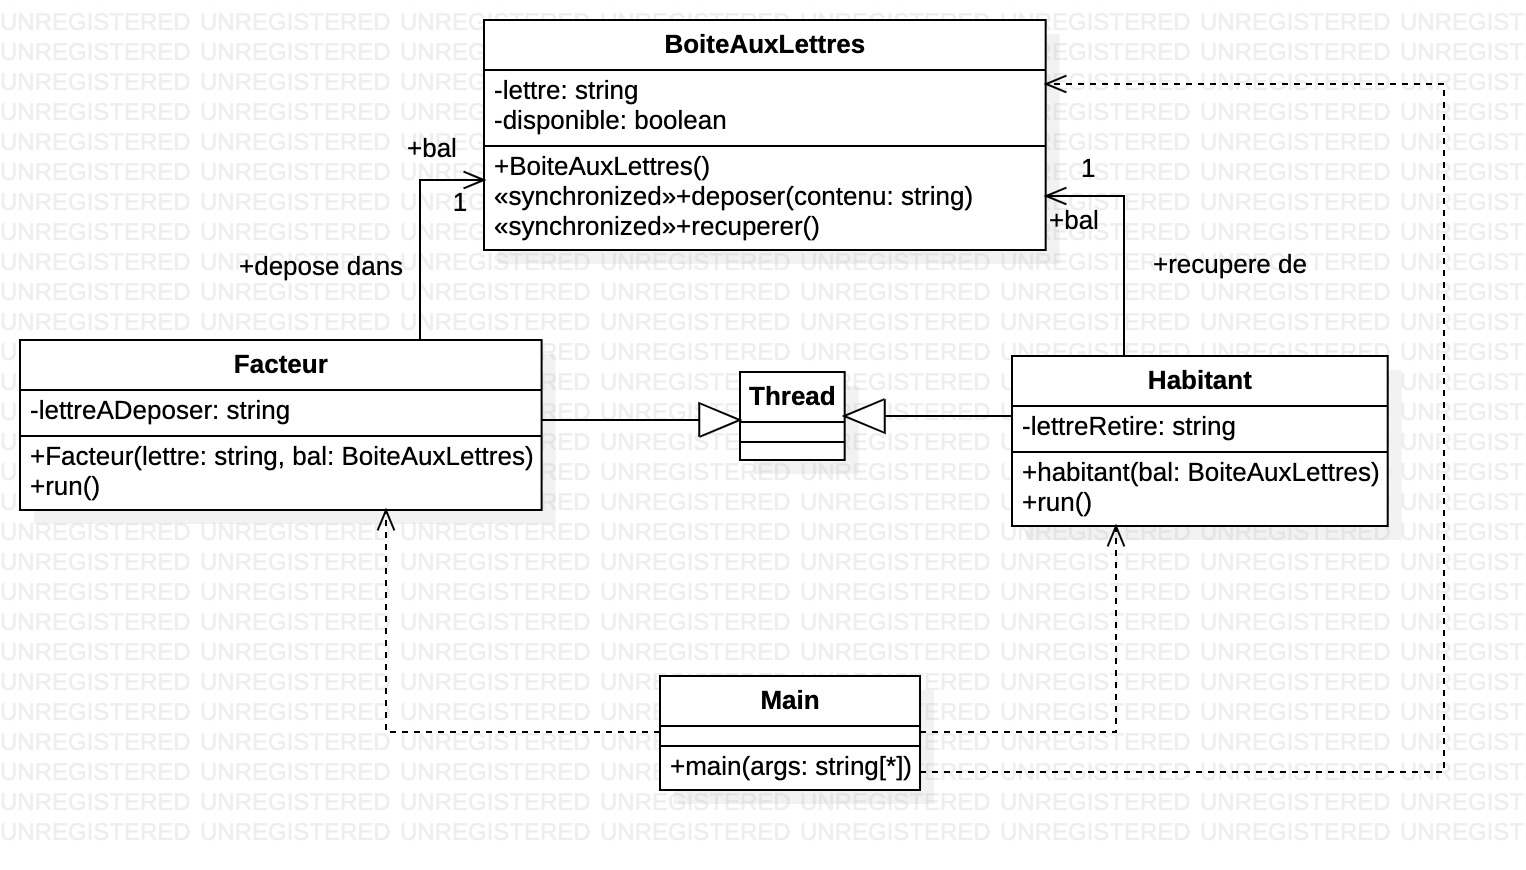
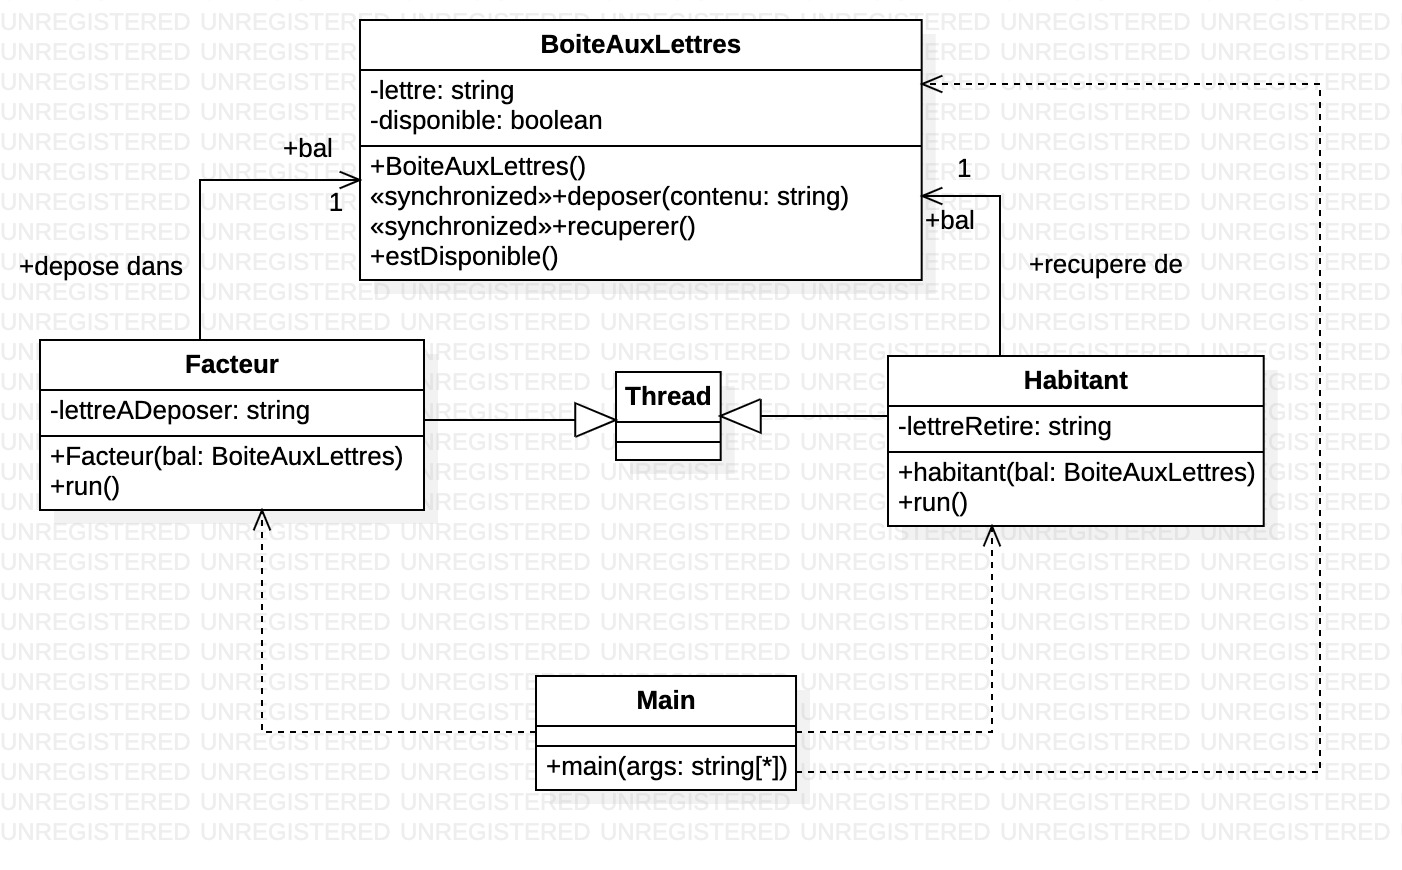
Boucle sur le producteur et le consommateur du temps que la lettre n'est pas Q

diff --git a/TP3_Moniteur_BAL/Facteur.java b/TP3_Moniteur_BAL/Facteur.java
@@ -5,21 +5,27 @@ public class Facteur extends Thread
     private String lettreADeposer = null;
     private BoiteAuxLettres bal = new BoiteAuxLettres();
 
-    public Facteur(BoiteAuxLettres bal, String lettre)
+    public Facteur(BoiteAuxLettres bal)
     {
         this.bal = bal;
-        lettreADeposer = lettre;
     }
 
     public void run()
     {
         try
         {
-            bal.deposer(lettreADeposer);
-            System.out.println("Depot de la lettre : " + lettreADeposer);
-        }
-        catch (Exception e)
-        {
+            while (lettreADeposer == null || !lettreADeposer.equals("Q"))
+            {
+                while (!bal.estDisponible())
+                {
+                    sleep(1000);
+                }
+                System.out.println("Entrez la lettre à déposer : ");
+                lettreADeposer = System.console().readLine();
+                bal.deposer(lettreADeposer);
+                System.out.println("Depot de la lettre : " + lettreADeposer);
+            }
+        } catch (Exception e) {
             System.out.println(e.getMessage());
         }
     }

diff --git a/TP3_Moniteur_BAL/Habitant.java b/TP3_Moniteur_BAL/Habitant.java
@@ -14,8 +14,15 @@ public class Habitant extends Thread
     {
         try
         {
-            lettreRetire = bal.retirer();
-            System.out.println("Lettre récupéré : " + lettreRetire);
+            while (lettreRetire == null || !lettreRetire.equals("Q"))
+            {
+                while (bal.estDisponible())
+                {
+                    sleep(1000);
+                }
+                lettreRetire = bal.retirer();
+                System.out.println("Lettre récupéré : " + lettreRetire);
+            }
         }
         catch (Exception e)
         {

diff --git a/TP3_Moniteur_BAL/Main.java b/TP3_Moniteur_BAL/Main.java
@@ -5,14 +5,11 @@ public class Main
 	public static void main(String[] args)
 	{
 		BoiteAuxLettres bal = new BoiteAuxLettres();
-		Facteur facteur = new Facteur(bal, "Lettre 1");
-		Facteur facteur2 = new Facteur(bal, "Lettre 2");
+
+		Facteur facteur = new Facteur(bal);
 		Habitant habitant = new Habitant(bal);
-		Habitant habitant2 = new Habitant(bal);
 
 		facteur.start();
-		facteur2.start(); // error bal is not available
 		habitant.start();
-		habitant2.start(); // get null (no letter available)
 	}
 }

diff --git a/TP3_Moniteur_BAL/BoiteAuxLettres.java b/TP3_Moniteur_BAL/BoiteAuxLettres.java
@@ -30,4 +30,9 @@ public class BoiteAuxLettres
         disponible = true;
         return copieLettre;
     }
+
+    public boolean estDisponible()
+    {
+        return disponible;
+    }
 }

diff --git a/Rapports/Rapport.md b/Rapports/Rapport.md
@@ -176,8 +176,51 @@ Le modèle producteur-consommateur consiste à avoir 3 classes :
 - La classe qui produit, ici `Facteur`  
 - La classe qui consomme, ici `Habitant`  
 
-La classe `BoiteAuxLettres` est la classe qui contient la ressource critique, la lettre `String`.  
+La classe `BoiteAuxLettres` est la classe qui contient la ressource critique, la lettre `String`. La boite aux lettres propose les services `deposer` et `retirer`.  
 La classe `Facteur` s'occupe de déposer des lettres dans la boite aux lettres mais qu'une lettre est possible par boite aux lettres.  
 La classe `Habitant` s'occupe de lire les lettres dans la boite aux lettres. Si la boite aux lettres est vide, il lit `null`.  
+
+## N'arrêter le producteur et le consommateur que si la lettre est `Q`
+
+Pour arrêter le producteur et le consommateur quand la lettre est "Q", il faut ajouter une fonction qui permet de savoir si la boite aux lettres est disponible et faire boucler les threads tant que la lettre n'est pas "Q".  
+
+BAL :
+
+```java
+public boolean estDisponible()
+{
+    return estDisponible;
+}
+```
+
+Facteur :
+
+```java
+while (lettreADeposer == null || !lettreADeposer.equals("Q"))
+{
+    while (!bal.estDisponible())
+    {
+        sleep(1000);
+    }
+    System.out.println("Entrez la lettre à déposer : ");
+    lettreADeposer = System.console().readLine();
+    bal.deposer(lettreADeposer);
+    System.out.println("Depot de la lettre : " + lettreADeposer);
+}
+```
+
+Habitant :
+
+```java
+while (lettreRetire == null || !lettreRetire.equals("Q"))
+{
+    while (bal.estDisponible())
+    {
+        sleep(1000);
+    }
+    lettreRetire = bal.retirer();
+    System.out.println("Lettre récupéré : " + lettreRetire);
+}
+```
 
 ## Conclusion
